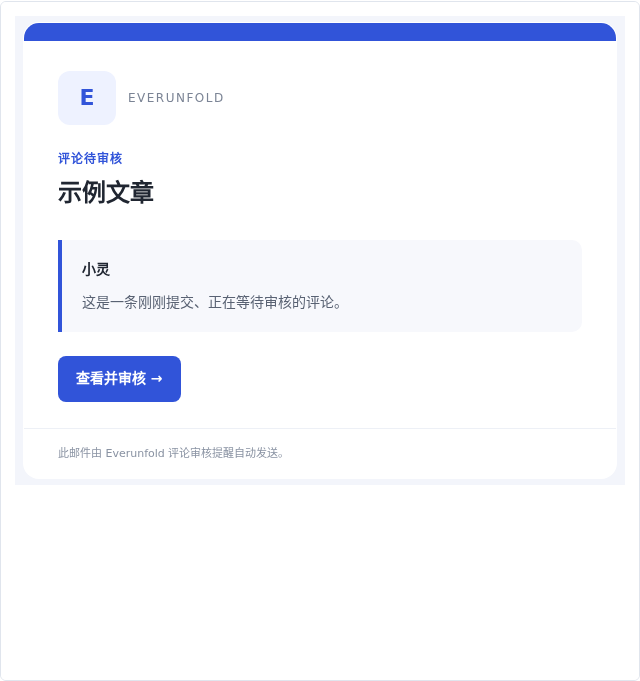
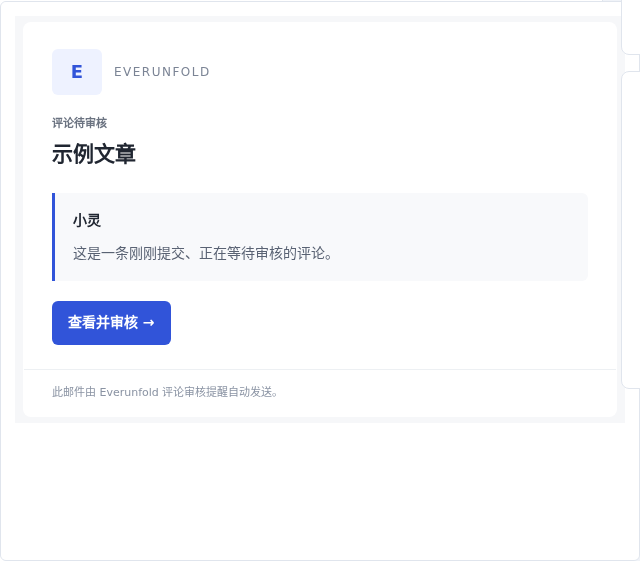
docs: align email preview with source

diff --git a/docs/handoff/notification-html-template-verification.md b/docs/handoff/notification-html-template-verification.md
@@ -1,14 +1,14 @@
 # 通知模板代码编辑器与 HTML 邮件验收
 
-版本：notification-html-template-verification-3。日期：2026-11-11。后端HTML开关提交`a592e1c`、前端实现见STATUS。未向外部邮箱发送邮件。
+版本：notification-html-template-verification-4。日期：2026-11-11。后端HTML开关提交`a592e1c`、前端实现见STATUS。未向外部邮箱发送邮件。
 
 ## 已实现
 
-- 通知模板正文由普通多行文本框改为共享编辑器；纯文本和 HTML 源码使用`CodeEditor`，邮件 HTML 另提供基于Tiptap的可视化编辑。
-- 邮件平台使用独立“启用 HTML”开关；关闭时编辑纯文本，开启后可切换“可视化 / HTML 源码”，关闭不会删除HTML内容，首次启用时从现有纯文本生成安全段落。
+- 通知模板正文由普通多行文本框改为共享编辑器；纯文本和 HTML 源码使用`CodeEditor`。
+- 邮件平台使用独立“启用 HTML”开关；关闭时编辑纯文本，开启后可切换“可视化预览 / HTML源码”，关闭不会删除HTML内容，首次启用时从现有纯文本生成安全段落。
 - 默认邮件模板改为后台风格的简约图形卡片：中性背景、细边框、小图形标识、评论摘要和单一操作入口。
 - 可用变量插入当前代码编辑器光标位置；示例人物变量由“小林”改为“小灵”。
-- HTML 预览使用无脚本、无同源权限的沙箱 iframe；桌面和手机均能正常显示替换后的内容。
+- “可视化预览”直接渲染当前HTML源码，与最终邮件共用同一份内容和清洗链路；下方不再维护重复“安全预览”。
 - 后端对 HTML 变量值先转义，再过滤脚本、表单、iframe、SVG、事件属性和活动 URL。
 - 邮件以`multipart/alternative`发送，纯文本正文始终保留为回退，HTML 为可选展示版本。
 
@@ -18,8 +18,8 @@
 - 后端完整真实数据库套件：350 passed，352.74秒；Ruff、格式、`mypy app`通过。
 - 前端`npm run check`：370 passed；`npm run verify:admin`生产隔离矩阵通过。
 - 定向测试验证 HTML 注入值转义、脚本/事件属性清理、SMTP 多部分 MIME 和纯文本回退。
-- 1440px与390px实页检查：可视化编辑器1个、切换后HTML源码1个、安全预览iframe1个；可视化输入会同步到源码，“小灵”可见、旧“小林”不可见，无水平溢出和`pageerror`。
-- HTML开关关闭后可视化编辑器数量为0、纯文本代码编辑器1个；再次开启后原HTML模板仍存在，内容未丢失。
+- 1440px与390px实页检查：HTML源码编辑器1个、可视化预览iframe1个、重复“安全预览”数量为0；“小灵”可见、旧“小林”不可见，无水平溢出和`pageerror`。
+- HTML开关关闭后预览iframe数量为0、纯文本代码编辑器1个；再次开启后原HTML模板仍存在，内容未丢失。
 - 保存链路使用浏览器请求夹具确认提交 `html`，未改开发环境中的真实通知模板。
 
 ## 证据

diff --git a/docs/development/notifications.md b/docs/development/notifications.md
@@ -1,6 +1,6 @@
 # 通知系统与通知模板
 
-版本：notifications-4，2026-11-11。架构决定见 [ADR0113](../decisions/0113-notification-events-platforms-and-templates.md)与[ADR0117](../decisions/0117-html-notification-templates.md)。
+版本：notifications-5，2026-11-11。架构决定见 [ADR0113](../decisions/0113-notification-events-platforms-and-templates.md)与[ADR0117](../decisions/0117-html-notification-templates.md)。
 
 ## 概念
 
@@ -18,7 +18,7 @@
 - 内置平台 `in-app`、`email`；插件可注册其他平台。
 - 路由接收人支持指定用户、角色和权限。
 - 模板按事件、平台、语言保存；缺失平台变体回退到内置安全文案。
-- 模板正文使用共享编辑器。站内通知只编辑纯文本；邮件平台通过独立“启用 HTML”开关控制HTML发送，开启后可切换“可视化 / 源码”，关闭时保留HTML内容。
+- 模板正文使用共享编辑器。站内通知只编辑纯文本；邮件平台通过独立“启用 HTML”开关控制HTML发送，开启后可切换“可视化预览 / HTML源码”，关闭时保留HTML内容。
 - 默认邮件模板采用后台一致的简约卡片：中性背景、细分隔线、小图形标识和少量主题色，不依赖外链图片。
 - 评论进入待审核状态时发布 `comment.pending_review`。
 - 站内通知写入 Inbox；邮件平台复用现有 SMTP 配置。
@@ -63,4 +63,4 @@ registry.notifications.register(
 
 站内通知与邮件可在同一事件上并存，但同一用户、同一平台在一次事件中至多生成一条投递。SMTP 结果未知、Worker 租约过期或插件异常都不自动重发，记录为 `unknown`。策略与模板每次保存都写设置审计。
 
-HTML 管理预览使用无脚本、无同源权限的沙箱 iframe；它只用于检查排版，不代表所有邮件客户端都支持相同 CSS。
+HTML“可视化预览”与最终邮件共用同一份HTML和清洗链路，使用无脚本、无同源权限的沙箱 iframe；页面下方不再维护重复预览。它不代表所有邮件客户端都支持相同 CSS。

diff --git a/docs/decisions/0117-html-notification-templates.md b/docs/decisions/0117-html-notification-templates.md
@@ -4,12 +4,12 @@
 
 ## 决定
 
-1. 通知模板正文使用项目共享编辑器，不再使用普通多行文本框。站内通知编辑纯文本；邮件平台通过独立“启用 HTML”开关控制是否启用 HTML。
+1. 通知模板正文使用项目共享编辑器。站内通知编辑纯文本；邮件平台通过独立“启用 HTML”开关控制是否启用 HTML，开启后提供“可视化预览 / HTML 源码”双视图。
 2. 邮件模板分别保存纯文本正文、HTML 正文和HTML启用状态。关闭HTML只停止发送HTML，不删除已有内容；发送时使用 `multipart/alternative`，纯文本始终保留为回退。
 3. HTML 变量插值先转义事件值，再由后端保守清洗。允许常见排版、链接、图片和表格标签，移除脚本、表单、iframe、SVG、事件属性和活动 URL。
-4. 管理端 HTML 预览放在无 `allow-scripts`、无同源权限的沙箱 iframe 中；预览只替换示例变量，不执行作者脚本。
+4. “可视化预览”和最终邮件共用同一份HTML与清洗链路，放在无 `allow-scripts`、无同源权限的沙箱 iframe 中；不再维护页面下方第二套重复预览。
 5. 站内通知仍只消费纯文本，不把邮件 HTML 注入 Inbox。非邮件平台提交 HTML 正文返回422。
-6. 示例人物变量从“小林”改为“小灵”，变量按钮插入当前代码编辑器光标位置；切换 HTML 时若 HTML 为空，从现有纯文本生成安全段落作为起点。
+6. 示例人物变量从“小林”改为“小灵”，变量按钮插入HTML源码光标位置；启用 HTML 时若 HTML 为空，从现有纯文本生成安全段落作为起点。
 7. 默认邮件模板使用与后台一致的克制样式：中性背景、细边框、小图形标识和少量主题色，不依赖外链图片；纯文本仍作为不可删除的回退版本。
 
 ## 契约

diff --git a/docs/README.md b/docs/README.md
@@ -1,6 +1,6 @@
 # Everunfold 文档入口
 
-[通知模板代码编辑器与 HTML 邮件](development/notifications.md)、[ADR0117](decisions/0117-html-notification-templates.md)及[验收](handoff/notification-html-template-verification.md)：邮件通过独立“启用 HTML”开关控制发送，开启后提供可视化与源码双视图，关闭时保留内容并使用纯文本回退。默认邮件模板采用后台一致的简约图形卡片。HTML变量先转义，再按保守标签白名单清洗，并以`multipart/alternative`发送。
+[通知模板代码编辑器与 HTML 邮件](development/notifications.md)、[ADR0117](decisions/0117-html-notification-templates.md)及[验收](handoff/notification-html-template-verification.md)：邮件通过独立“启用 HTML”开关控制发送，开启后提供可视化预览与源码双视图，关闭时保留内容并使用纯文本回退。默认邮件模板采用后台一致的简约图形卡片。HTML变量先转义，再按保守标签白名单清洗，并以`multipart/alternative`发送。
 
 [多邮件发信配置](development/mail.md)、[ADR0116](decisions/0116-multiple-mail-sender-profiles.md)及[验收](handoff/multi-mail-profile-verification.md)：邮件配置并入“通知与消息 → 通知平台”，每站可维护最多20套 SMTP 发信身份；提醒规则可选择具体配置，未选择时使用默认配置。投递会快照配置身份和修订，停用、删除或配置变化不会静默换号；旧单配置自动兼容，原邮件设置入口保留隐藏跳转。
 

diff --git a/docs/handoff/STATUS.md b/docs/handoff/STATUS.md
@@ -3,7 +3,7 @@
 ## 最新交付：通知模板HTML开关与可视化编辑（2026-11-11）
 
 - `notifications-v1 1.3.0`增加显式`html_enabled`；HTML关闭时保留已存内容但不再生成HTML投递，站内通知继续只使用纯文本。
-- 前端邮件模板使用独立“启用 HTML”开关，开启后支持可视化与源码双视图。
+- 前端邮件模板使用独立“启用 HTML”开关，开启后提供“可视化预览 / HTML源码”；预览直接渲染同一份源码，不再维护下方重复预览。
 - 默认邮件模板使用后台一致的简约图形卡片，中性背景、细边框、小面积主题色，不依赖外链图片。
 - HTML 变量值先转义，随后按保守标签/属性白名单清洗；脚本、表单、iframe、SVG、事件属性和活动 URL 不进入投递 HTML。邮件传输改为`multipart/alternative`，纯文本正文始终保留为回退。
 - 迁移`0047_notification_html_toggle`已应用开发库并通过`alembic check`；非邮件平台提交HTML返回422。
